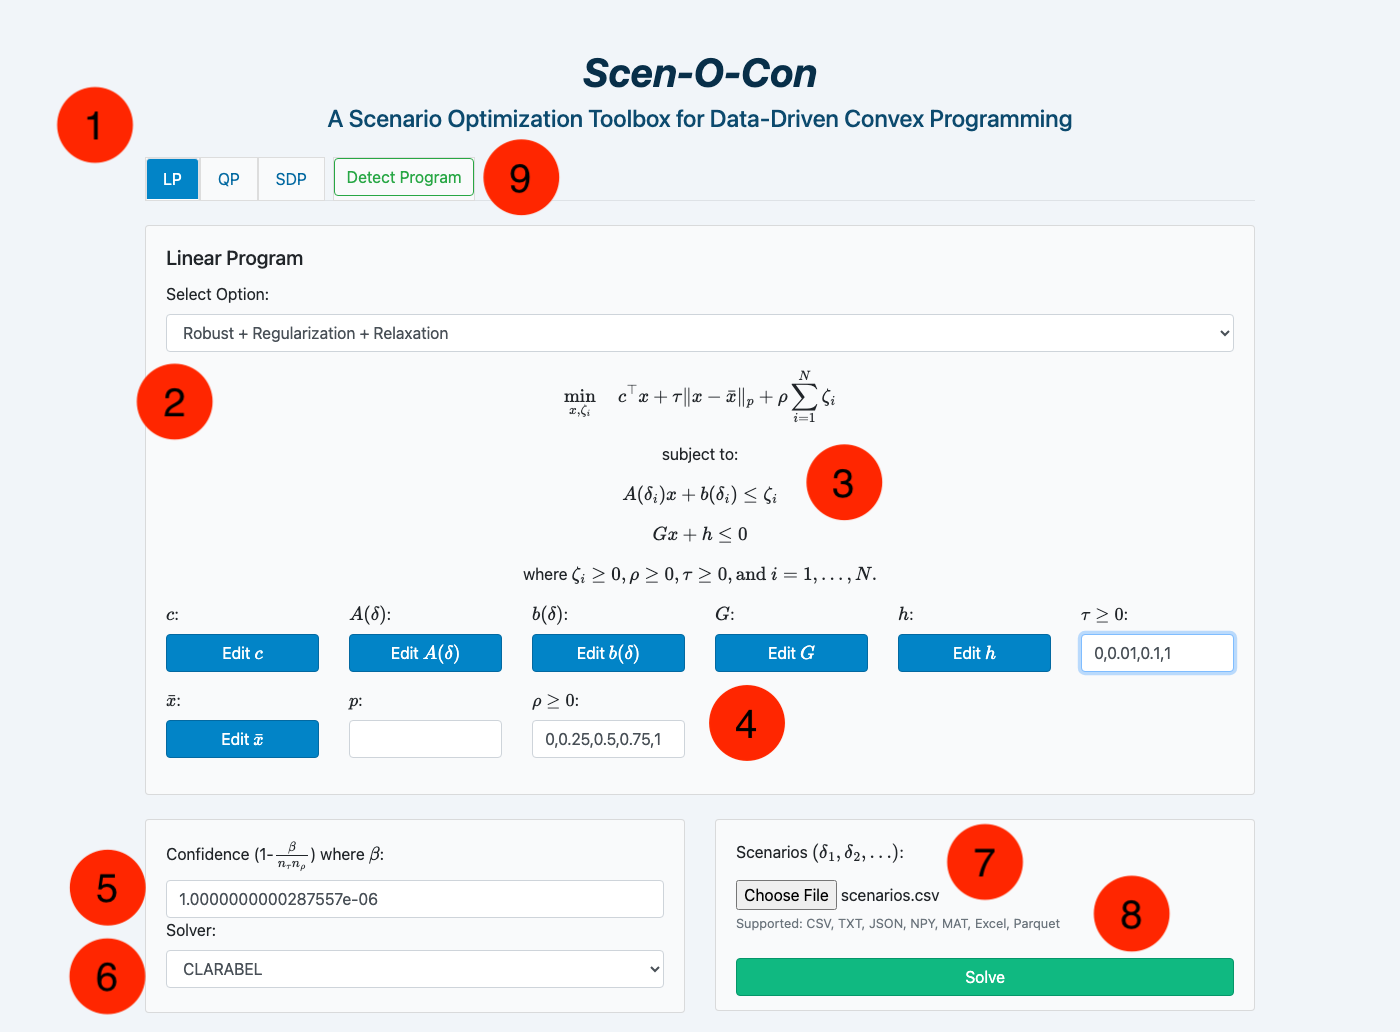
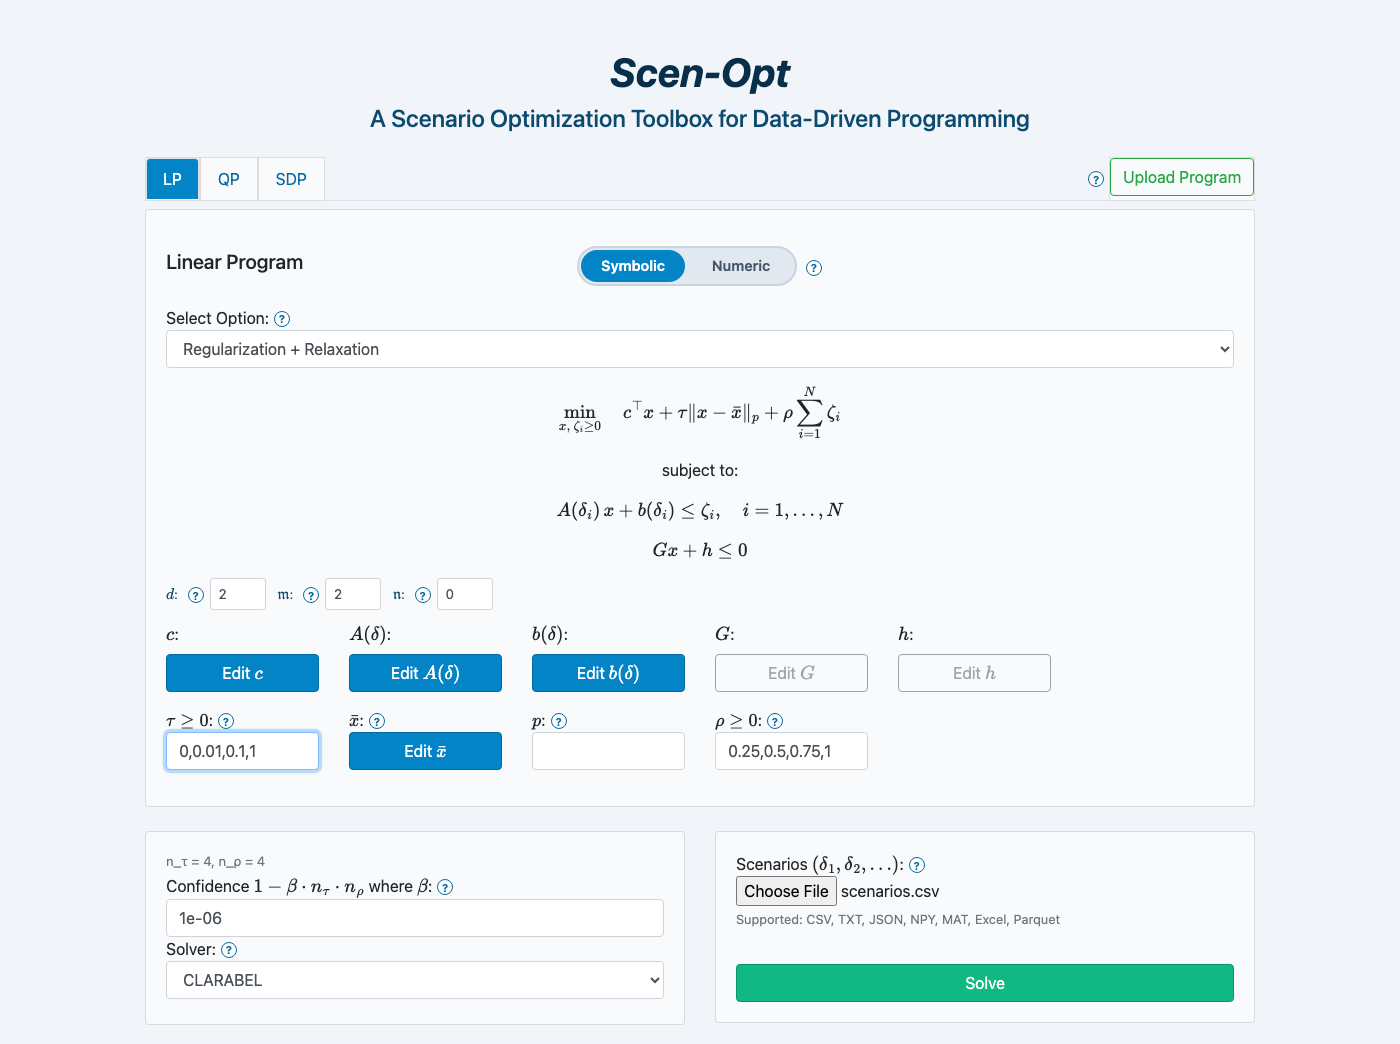
Fix README details and refresh the screenshots
- README: Python 3.10 or newer, MOSEK is installed by requirements.txt
  but needs a licence (and is the recommended solver), the dialog button
  is "I have a local license", and p is any number >= 1, inf or fro.
- take_screenshots.py works again (repository-relative paths, current
  program file and option names) and writes screenshots/scrn_*.png,
  which are regenerated from the current interface.

diff --git a/take_screenshots.py b/take_screenshots.py
@@ -1,12 +1,24 @@
 #!/usr/bin/env python3
-"""Take screenshots of the web interface for documentation."""
+"""Take screenshots of the web interface for documentation.
+
+Requires playwright (not in requirements.txt):
+    pip install playwright && playwright install chromium
+
+Start the app first (python app.py), then run from the repository root:
+    python take_screenshots.py [URL]     # default URL: http://127.0.0.1:5000/
+The screenshots are written to screenshots/.
+"""
 import asyncio
+import os
+import sys
 from playwright.async_api import async_playwright
 
-SCREENSHOTS_DIR = "/Users/ben/Documents/Tools/ScenarioApproachTool/screenshots"
+ROOT = os.path.dirname(os.path.abspath(__file__))
+SCREENSHOTS_DIR = os.path.join(ROOT, "screenshots")
+URL = sys.argv[1] if len(sys.argv) > 1 else "http://127.0.0.1:5000/"
+BENCHMARK_DATA = os.path.join(ROOT, "benchmarks", "LP_half_width_2d", "data")
 
 async def main():
-    import os
     os.makedirs(SCREENSHOTS_DIR, exist_ok=True)
 
     async with async_playwright() as p:
@@ -16,17 +28,17 @@ async def main():
         # Handle alert dialogs automatically
         page.on("dialog", lambda d: asyncio.ensure_future(d.accept()))
 
-        await page.goto("http://127.0.0.1:5000/")
+        await page.goto(URL)
         await page.wait_for_load_state("networkidle")
         await asyncio.sleep(2)
 
-        # --- Load benchmark via Detect Program modal ---
+        # --- Load the benchmark via the Upload Program dialog ---
         await page.click('button[data-target="#detectProgramModal"]')
         await asyncio.sleep(1)
 
         # Upload the benchmark JSON
         await page.set_input_files('#detect-program-file',
-            "benchmarks/LP_half_width_2d/data/benchmark.json")
+            os.path.join(BENCHMARK_DATA, "program_symbolic.json"))
         await asyncio.sleep(0.5)
 
         # Click "Load" button
@@ -35,16 +47,17 @@ async def main():
 
         # Set multiple rho and tau values for interesting graphs
         # First select the general formulation to show rho+tau fields
-        await page.select_option('#lp-options', 'robust-regularization-relaxation')
+        await page.select_option('#lp-options', 'regularization-relaxation')
         await asyncio.sleep(0.5)
 
-        await page.fill('#lp-rho', '0,0.25,0.5,0.75,1')
+        # (rho = 0 is left out: relaxation with rho = 0 is unbounded.)
+        await page.fill('#lp-rho', '0.25,0.5,0.75,1')
         await page.fill('#lp-tau', '0,0.01,0.1,1')
         await asyncio.sleep(0.3)
 
         # Upload scenarios file
         await page.set_input_files('#file',
-            "benchmarks/LP_half_width_2d/data/scenarios.csv")
+            os.path.join(BENCHMARK_DATA, "scenarios.csv"))
         await asyncio.sleep(0.5)
 
         # Screenshot 1: Tool (everything above results, including Solve button)
@@ -57,7 +70,7 @@ async def main():
         result_box = await result_card.bounding_box()
 
         await page.screenshot(
-            path=f"{SCREENSHOTS_DIR}/1_tool.png",
+            path=f"{SCREENSHOTS_DIR}/scrn_1_tool.png",
             clip={"x": 0, "y": 0, "width": 1400, "height": result_box["y"] - 5},
             full_page=True
         )
@@ -76,21 +89,21 @@ async def main():
         result_card_el = page.locator('.card.mt-4:has(.card-title:has-text("Result"))').first
         await result_card_el.scroll_into_view_if_needed()
         await asyncio.sleep(0.5)
-        await result_card_el.screenshot(path=f"{SCREENSHOTS_DIR}/2_results.png")
+        await result_card_el.screenshot(path=f"{SCREENSHOTS_DIR}/scrn_2_results.png")
         print("Screenshot 2: Results table - done")
 
         # Screenshot 3: tau graph tab
         await page.click('a#result-graph2-tab')
         await asyncio.sleep(1.5)
         tau_pane = page.locator('#result-graph2')
-        await tau_pane.screenshot(path=f"{SCREENSHOTS_DIR}/3_tau_graph.png")
+        await tau_pane.screenshot(path=f"{SCREENSHOTS_DIR}/scrn_3_tau_graph.png")
         print("Screenshot 3: Tau graph - done")
 
         # Screenshot 4: rho graph tab
         await page.click('a#result-graph-tab')
         await asyncio.sleep(1.5)
         rho_pane = page.locator('#result-graph')
-        await rho_pane.screenshot(path=f"{SCREENSHOTS_DIR}/4_rho_graph.png")
+        await rho_pane.screenshot(path=f"{SCREENSHOTS_DIR}/scrn_4_rho_graph.png")
         print("Screenshot 4: Rho graph - done")
 
         await browser.close()

diff --git a/README.md b/README.md
@@ -10,7 +10,7 @@ The tool is implemented as a Python Flask web application with a modern JavaScri
 
 ## Installation
 
-**Prerequisites:** Python 3.12+ and pip.
+**Prerequisites:** Python 3.10 or newer (3.12 recommended) and pip.
 
 ```bash
 # Clone the repository
@@ -26,7 +26,7 @@ python3 app.py
 
 The server starts at `http://127.0.0.1:5000`. Open this URL in a browser to access the web interface.
 
-**Optional:** For best performance on SDP problems, install [MOSEK](https://www.mosek.com/) (free academic license available). See [MOSEK Support](#mosek-support) for license configuration.
+**MOSEK:** [MOSEK](https://www.mosek.com/) is the recommended solver: it is the most stable for these problems and was used for all published results. Its Python package is installed by `requirements.txt`, but it needs a licence (free for academics). See [MOSEK Support](#mosek-support) for license configuration.
 
 ## Quick Start
 
@@ -94,7 +94,7 @@ where the scenario constraints are Linear Matrix Inequalities (LMIs) parameteriz
 | Scenarios | delta_i | Sampled uncertainty realizations (N samples) |
 | Slack penalty | rho | Penalty on constraint relaxation (rho = 0 means hard scenario constraints) |
 | Regularization | tau | Regularization strength toward reference point x_ref |
-| Norm type | p | Norm for regularization (1, 2, inf, fro, nuc) |
+| Norm type | p | Norm for regularization (any p ≥ 1, inf, or fro) |
 | Confidence | beta | Confidence parameter for risk bounds (e.g. beta = 0.01 for 99% confidence) |
 
 ### Risk Quantification
@@ -269,7 +269,7 @@ Identifies the support list of a solved scenario program: the constraints whose 
 
 - **License upload:** When MOSEK is selected as the solver, a modal prompts you to upload your `mosek.lic` file. The license is **not** stored on the server.
 - **Browser caching:** After the first upload, the license is cached in your browser's session storage. Subsequent solves skip the modal automatically. A cache indicator and "Clear" button appear below the solver dropdown.
-- **Local license:** If MOSEK is installed locally with a system license (e.g., at `~/mosek/mosek.lic`), click "Skip" in the modal to use it directly.
+- **Local license:** If MOSEK is installed locally with a system license (e.g., at `~/mosek/mosek.lic`), click "I have a local license" in the modal to use it directly.
 - **Concurrent users:** Each MOSEK solve with an uploaded license runs in an isolated subprocess with the license written to an ephemeral `/tmp` directory (RAM-backed, auto-purged). Multiple users can solve simultaneously without conflicts.
 
 ## Docker
